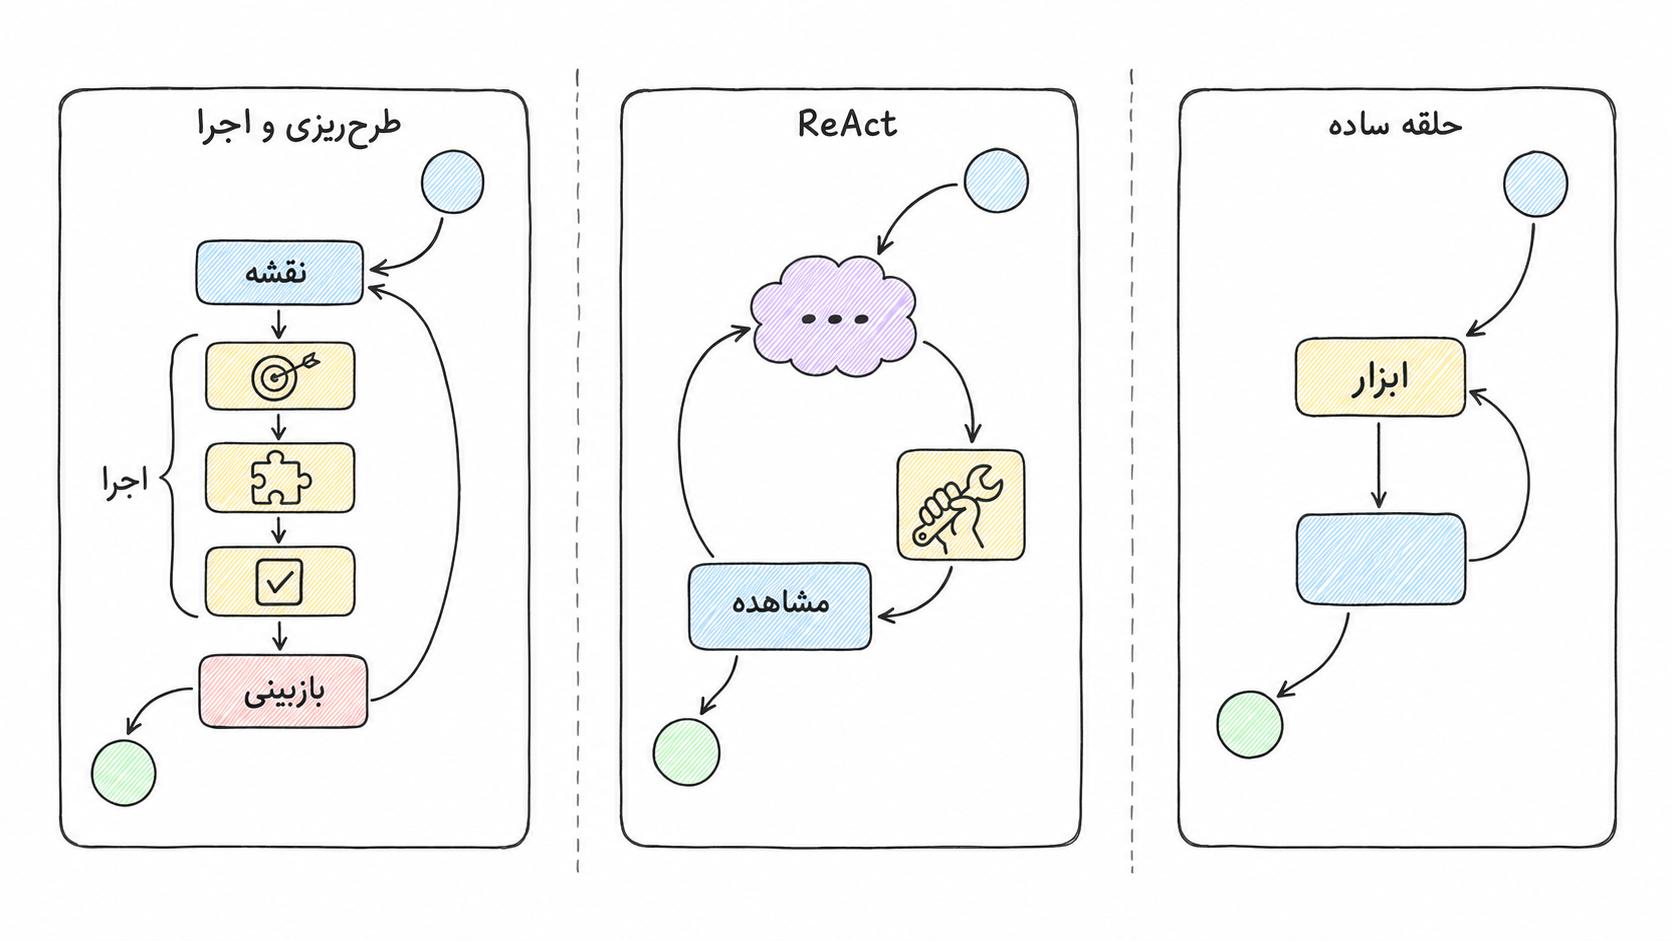
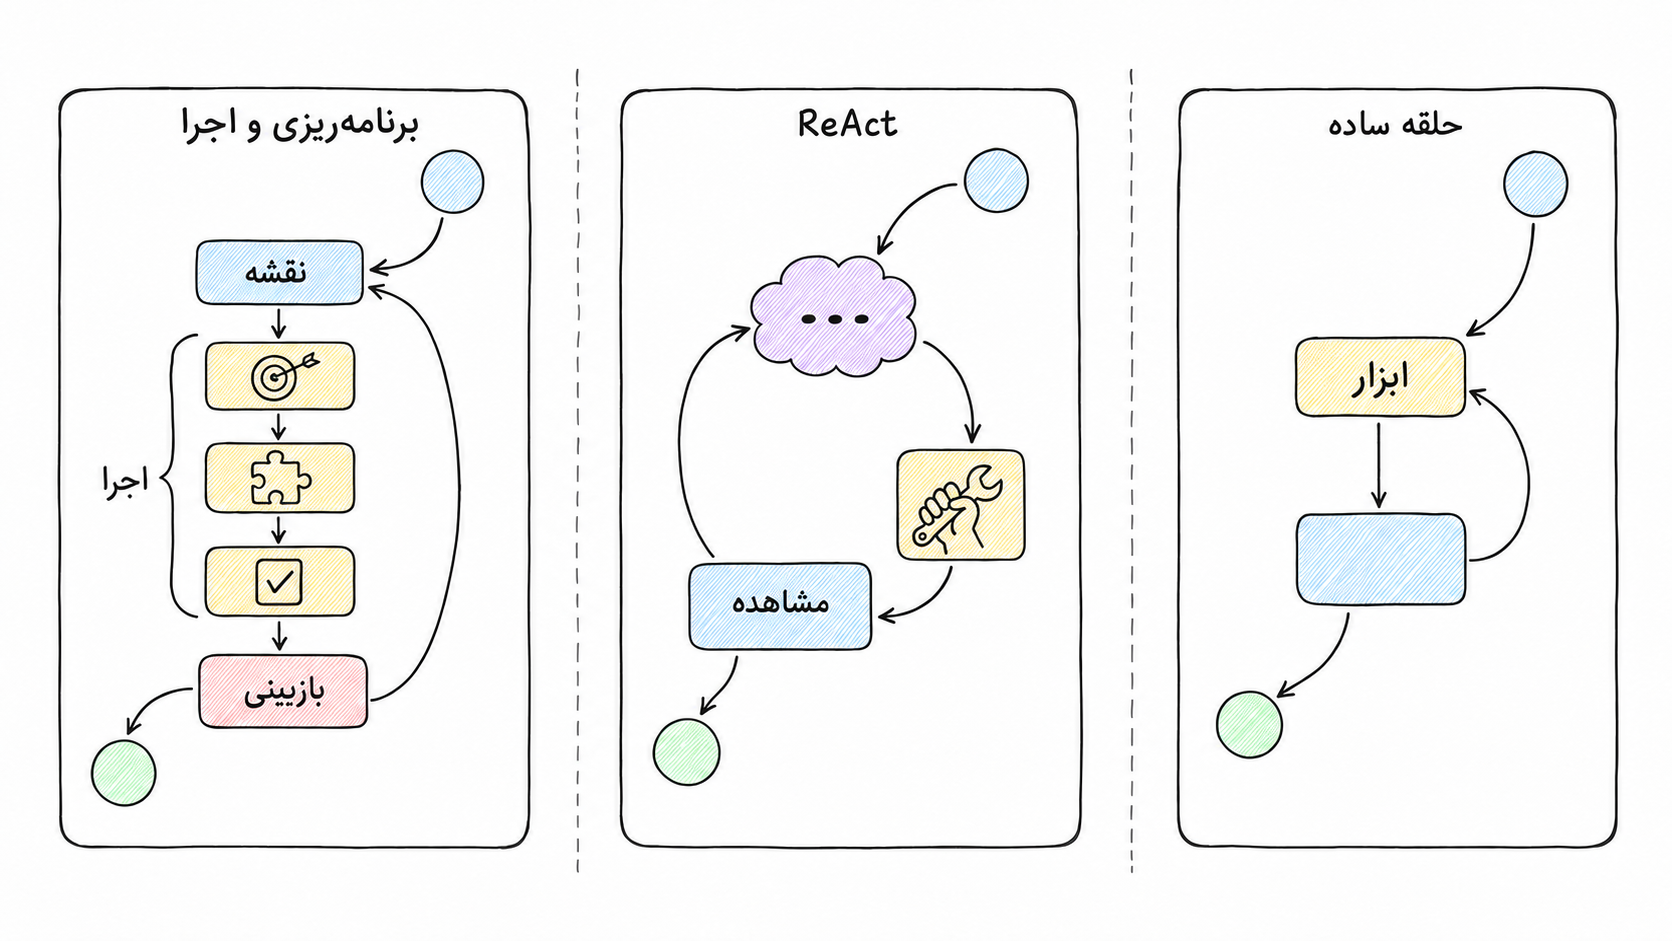
Show bounded agent loops and preserve replanning flow

diff --git a/README.md b/README.md
@@ -3145,6 +3145,8 @@ def search_products(query: str, category: str = "all") -> str:
 اجرا: مرحله ۱... ✅ مرحله ۲... ✅ مرحله ۳... ✅ مرحله ۴... ✅
 ```
 
+تو الگوی این شکل، بعد از اجرا نتیجه رو میسنجه و اگه لازم باشه نقشه رو عوض میکنه؛ این برگشت هم باید سقف تلاش مشخص داشته باشه.
+
 ![سه پنل مقایسهای برای حلقه ساده ابزار، ReAct و برنامهریزی و اجرا](images/vis-16-agent-architectures.png)
 
 > 🖼 حلقه ساده مسیر کوتاهی داره؛ ReAct با مشاهده تکرار میشه و Plan-and-Execute قبل از اجرا نقشه میسازه.
